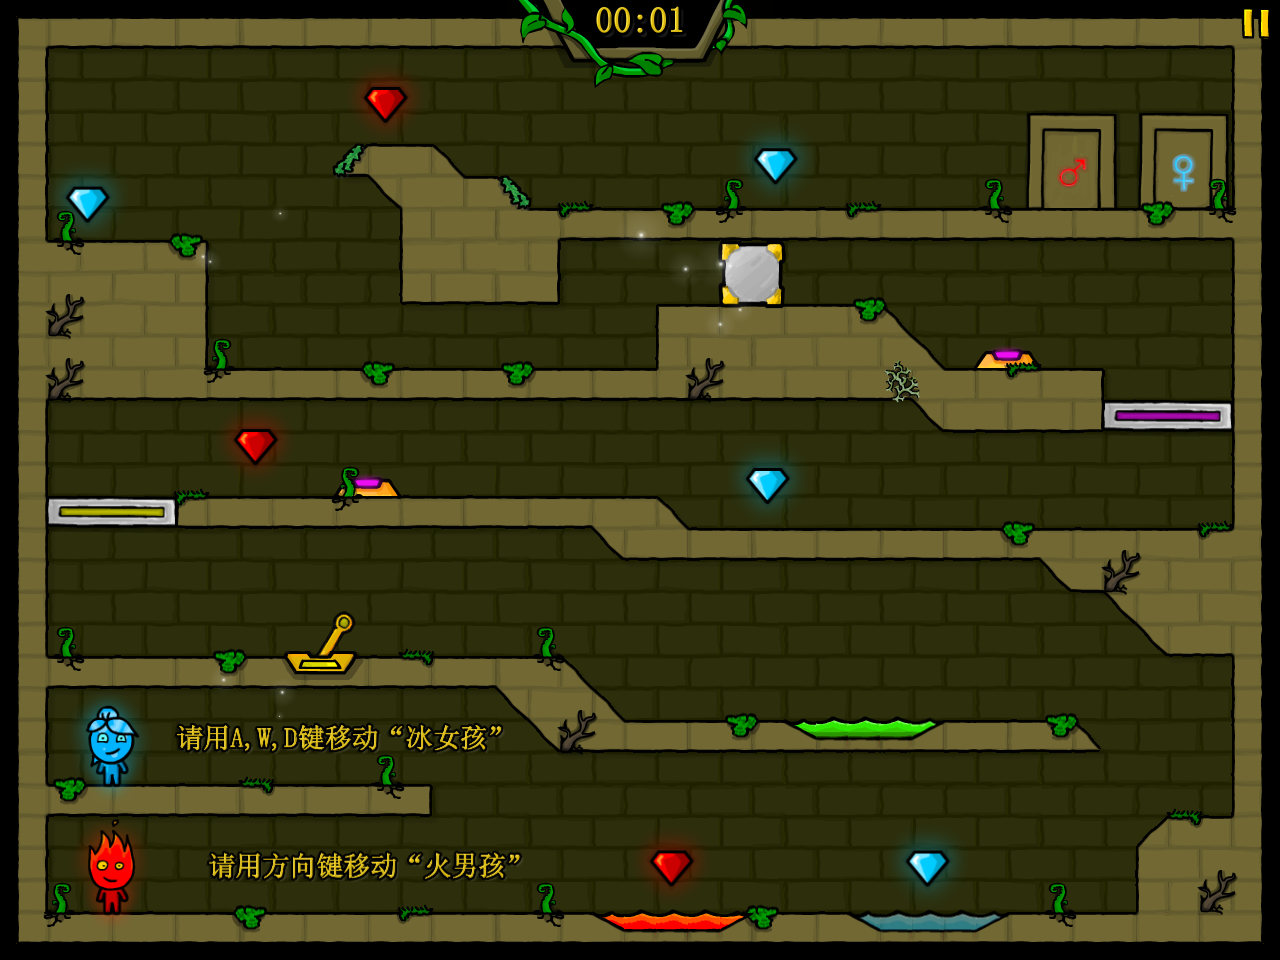
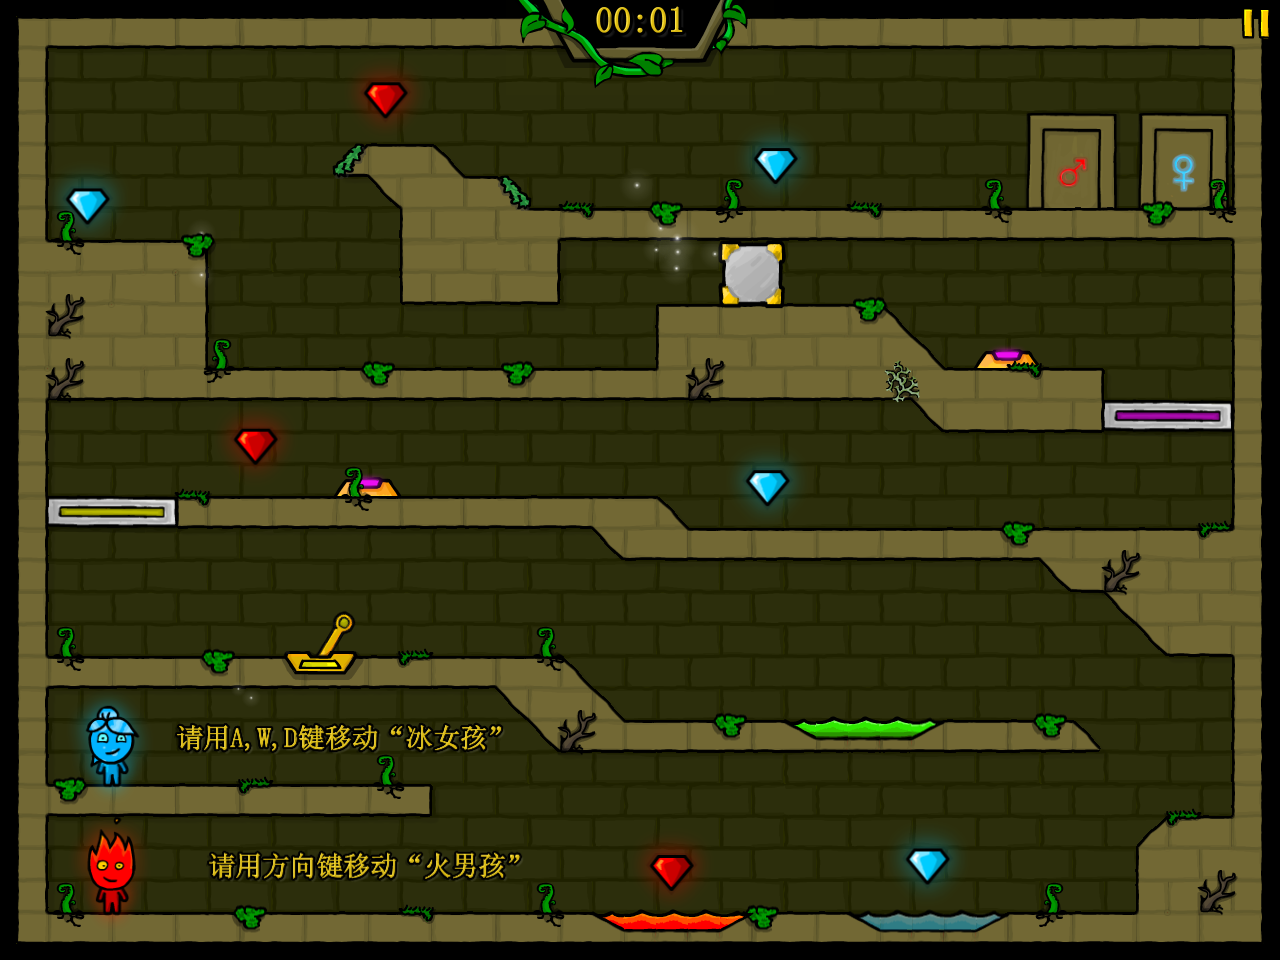
fix(client): 钻石计数迁出画布回归原版形态（R12）
- 移除画布内左上钻石计数（原版游戏内无计数）；计数经调试句柄迁至 DOM #hud-diamonds
- 视觉复刻度 94.96 → 94.95；DOM 计数实测「红 0/3 · 蓝 0/4」正确
- 报告 §十五；版本 0.3.10 → 0.3.11

diff --git a/gyのFW/packages/client/src/scenes/GameScene.ts b/gyのFW/packages/client/src/scenes/GameScene.ts
@@ -123,7 +123,6 @@ export class GameScene extends Phaser.Scene {
   private diamondSprites = new Map<string, Phaser.GameObjects.Image>();
   /** HUD/时钟缓存（Text.setText 无条件重绘 canvas 纹理，仅变化时写入防掉帧） */
   private lastClock = "";
-  private lastHud = { red: "", blue: "", silver: "" };
   private diamondKinds = new Map<string, string>();
   private platformViews = new Map<string, Phaser.GameObjects.Container>();
   private leverViews = new Map<string, LeverView>();
@@ -133,9 +132,6 @@ export class GameScene extends Phaser.Scene {
   private doorSprites = new Map<Role, Phaser.GameObjects.Sprite>();
   private doorFrames = new Map<Role, number>();
   private clockText!: Phaser.GameObjects.BitmapText;
-  private redHudText!: Phaser.GameObjects.Text;
-  private blueHudText!: Phaser.GameObjects.Text;
-  private silverHudText: Phaser.GameObjects.Text | null = null;
   private redTotal = 0;
   private blueTotal = 0;
   private silverTotal = 0;
@@ -738,25 +734,8 @@ export class GameScene extends Phaser.Scene {
       .setDepth(9)
       .setScrollFactor(0);
 
-    const counter = (x: number, frame: string, total: number): Phaser.GameObjects.Text => {
-      this.add.image(x, 28, ATLAS_CHARS, frame).setOrigin(0.5).setScale(0.34).setDepth(9).setScrollFactor(0);
-      return this.add
-        .text(x + 26, 28, `0/${total}`, {
-          fontFamily: 'Georgia, "Times New Roman", serif',
-          fontSize: "20px",
-          color: "#f5efd5",
-          stroke: "#1a140a",
-          strokeThickness: 4,
-          fontStyle: "bold",
-        })
-        .setOrigin(0, 0.5)
-        .setDepth(9)
-        .setScrollFactor(0);
-    };
-    this.redHudText = counter(34, DIAMOND_FRAME.red, this.redTotal);
-    this.blueHudText = counter(150, DIAMOND_FRAME.blue, this.blueTotal);
-    // 银钻单列（E17：银钻不进红蓝栏、不计入 total）
-    if (this.silverTotal > 0) this.silverHudText = counter(266, DIAMOND_FRAME.silver, this.silverTotal);
+    // 钻石计数迁出画布（原版游戏内无计数，仅通关结算面板有）→ DOM #hud-diamonds
+    (globalThis as unknown as Record<string, unknown>).__fwHudTotals = { red: this.redTotal, blue: this.blueTotal, silver: this.silverTotal };
   }
 
   setMyRole(role: Role): void {
@@ -1008,9 +987,7 @@ export class GameScene extends Phaser.Scene {
     const redStr = `${redGot}/${this.redTotal}`;
     const blueStr = `${blueGot}/${this.blueTotal}`;
     const silverStr = `${silverGot}/${this.silverTotal}`;
-    if (redStr !== this.lastHud.red) this.redHudText.setText(redStr);
-    if (blueStr !== this.lastHud.blue) this.blueHudText.setText(blueStr);
-    if (silverStr !== this.lastHud.silver) this.silverHudText?.setText(silverStr);
+    (globalThis as unknown as Record<string, unknown>).__fwHudCounts = { red: redGot, blue: blueGot, silver: silverGot };
   }
 
   /** 机关快照消费（E13）：lever 角度+灯、pusher 压下、平台/箱/球位姿、风区显隐 */

diff --git a/gyのFW/packages/client/src/main.ts b/gyのFW/packages/client/src/main.ts
@@ -94,6 +94,15 @@ function updateHud(): void {
   $("#hud-status").textContent = text[phase] ?? "";
   $("#hud-status").classList.toggle("warn", phase === "paused" || phase === "gameover");
   keyboard?.setPaused(phase !== "started");
+  // 钻石计数（GameScene 写 __fwHudCounts；原版游戏内无计数，DOM 承载以免画布偏离）
+  const hudCounts = (globalThis as unknown as Record<string, { red: number; blue: number; silver: number }>).__fwHudCounts;
+  const hudTotals = (globalThis as unknown as Record<string, { red: number; blue: number; silver: number }>).__fwHudTotals;
+  const diaEl = document.querySelector("#hud-diamonds");
+  if (diaEl && hudCounts && hudTotals) {
+    const parts = ["红 " + hudCounts.red + "/" + hudTotals.red, "蓝 " + hudCounts.blue + "/" + hudTotals.blue];
+    if (hudTotals.silver > 0) parts.push("银 " + hudCounts.silver + "/" + hudTotals.silver);
+    diaEl.textContent = parts.join(" · ");
+  }
 }
 
 async function enterGame(): Promise<void> {

diff --git a/gyのFW/packages/client/index.html b/gyのFW/packages/client/index.html
@@ -158,6 +158,7 @@
       <div id="hud-top">
         <span id="hud-role"></span>
         <span id="hud-room"></span>
+        <span id="hud-diamonds" style="color:#cfe8ff"></span>
         <span id="hud-status"></span>
       </div>
       <div id="toast"></div>

diff --git a/gyのFW/note/release/0.3.11.md b/gyのFW/note/release/0.3.11.md
@@ -1,0 +1,8 @@
+# 0.3.11 · 画布回归原版形态（钻石计数迁出）
+
+> 2026-10-06。视觉保真轮：画布内不再渲染我方自加的钻石计数（原版游戏内无计数），
+> 计数迁至页面联机栏（DOM #hud-diamonds），功能不丢。
+
+- 画布 = 纯原版形态：时钟 + 暂停钮。
+- 视觉复刻度 94.96 → 94.95（平坦顶部，左上角 (0,0) 格出最差榜）；DOM 计数实测正确。
+- 验证：83/83 单测 · typecheck · build 全绿。
